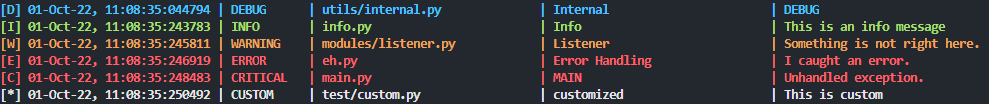
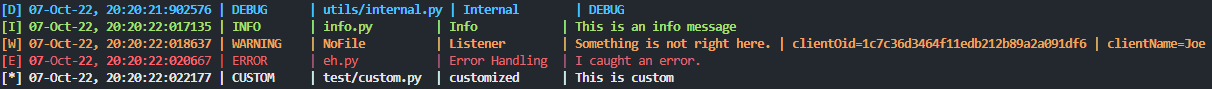
Rename; fix bugs

diff --git a/ezlogging/ezlogging.py b/ezlogging/ezlogging.py
@@ -15,7 +15,7 @@ class FileHandler:
 				f.write(f"{msg}\n")
 
 
-class PyLoggor:
+class ezlogging:
 	default_level_colours = {
 		"DEBUG": "[bold blue]",
 		"INFO": "[bold green]",
@@ -93,8 +93,8 @@ class PyLoggor:
 		file="NoFile",
 		msg="NoMessage", # I don't know why people do this
 		extras: Optional[dict] = None,
-		console_output: bool = True,
-		file_output: bool = False,
+		console_output: bool = None,
+		file_output: bool = None,
 	):
 		level = level.upper()
 		time_str = datetime.now().strftime(self.datefmt)
@@ -113,20 +113,37 @@ class PyLoggor:
 		else:
 			level_symbol = "*"
 
-		msg = f"[{level_symbol}] {time_str} {self.delim} {beautifed_level} {self.delim} {beautifed_file} {self.delim} {beautifed_topic} {self.delim} {msg}{extras_str}"
+		msg = f"[{level_symbol}] {time_str} {self.delim} {beautifed_level} {self.delim} {beautifed_file} {self.delim} {beautifed_topic} {self.delim} {msg} {extras_str}"
 
 		if level in self.level_colours.keys():
 			level_colour = self.level_colours[level]
 		else:
 			level_colour = self.default_colour
 
-		if self.console_output and console_output:
-			if level not in self.default_levels.keys() or self.default_levels[level] >= self.default_levels[self.console_output_level]:
-				print(f"{level_colour}{msg}[/]")
+		console_out = None
+		file_out = None
 
-		if self.file and file_output:
+		if console_output is True:
+			console_out = True
+		elif console_output is False:
+			console_out = False
+		elif console_output is None:
+			if level not in self.default_levels.keys() or self.default_levels[level] >= self.default_levels[self.console_output_level]:
+				console_out = True
+
+		if console_out:
+			print(f"{level_colour}{msg}[/]")
+
+		if file_output is True:
+			file_out = True
+		elif file_output is False:
+			file_out = False
+		elif file_output is None:
 			if level not in self.default_levels.keys() or self.default_levels[level] >= self.default_levels[self.file_output_level]:
-				self.file.write(msg)
+				file_out = True
+		
+		if file_out:
+			self.file.write(msg)
 	
 	def set_level(self, file_output_level=None, console_output_level=None) -> None:
 		if file_output_level:

diff --git a/setup.py b/setup.py
@@ -1,20 +1,20 @@
 from distutils.core import setup
 
 setup(
-    name='PyLoggor',
-    version='1.1.3',
+    name='ezlogging',
+    version='1.0.0',
     description='An incredibly versatile yet simple logging system.',
     author='Parth Mittal',
     author_email='parth@thekoalaco.in',
-    url='https://www.github.com/PrivatePandaCO/PyLoggor',
+    url='https://www.github.com/PrivatePandaCO/ezlogging',
     license='MIT',
-    packages=['PyLoggor'],
+    packages=['ezlogging'],
     install_requires=['rich'],
     long_description=open('README.md').read(),
     long_description_content_type='text/markdown',
     project_urls={
-        "Documentation": "https://github.com/PrivatePandaCO/PyLoggor/blob/master/README.md",
-        "Github": "https://github.com/PrivatePandaCO/PyLoggor",
-        "Changelog": "https://github.com/PrivatePandaCO/PyLoggor/blob/master/Changelog.md"
+        "Documentation": "https://github.com/PrivatePandaCO/ezlogging/blob/master/README.md",
+        "Github": "https://github.com/PrivatePandaCO/ezlogging",
+        "Changelog": "https://github.com/PrivatePandaCO/ezlogging/blob/master/Changelog.md"
     }
 )

diff --git a/ezlogging/__init__.py b/ezlogging/__init__.py
@@ -1,0 +1,1 @@
+from .ezlogging import ezlogging

diff --git a/README.md b/README.md
@@ -8,12 +8,12 @@ The easiest and perhaps the most versatile logger for python, in hundred lines.
 
 ### Installation
 ---
-As simple as `pip install PyLoggor`!
+As simple as `pip install ezlogging`!
 
 ### Usage
 ---
-1) Once installed, you can access the logger class by importing it like so: `from PyLoggor import PyLoggor`
-2) Instantize the class using: `myLogger = PyLoggor()`
+1) Once installed, you can access the logger class by importing it like so: `from ezlogging import ezlogging`
+2) Instantize the class using: `myLogger = ezlogging()`
 3) Log something! `myLogger.log(level="ERROR", msg="JSON config is corrupt.")`
 
 ### Config
@@ -40,7 +40,7 @@ As simple as `pip install PyLoggor`!
 
 1) `file_output_level`, `console_output_level`:
 	Different levels for file and console output!
-	- `PyLoggor(file_output_level="DEBUG", console_output_level="ERROR")`
+	- `ezlogging(file_output_level="DEBUG", console_output_level="ERROR")`
 	- This will write ALL logs to file but only print ERRORs and CRITICALs to the console.
 	- Both default to `DEBUG`.
 
@@ -52,10 +52,14 @@ As simple as `pip install PyLoggor`!
 3) `console_output`:
 	Set this to `False` if you do not want it to print logs to the console. Defaults to `True`.
 	
-4) `topic_beauty_space`, `file_beauty_space`, `level_beauty_space`:
+4) `topic_adjustment_space`, `file_adjustment_space`, `level_adjustment_space`:
 	- The loggor automatically adds whitespace to the end of topics, file names and levels (passed during logging) to make the output appear more... beautiful, as seen below
 
-5) `level_colours`:
+5) `level_align`, `topic_align`, `file_align`:
+	- Can be one of `left`, `center`, `centre`, `right`, all default to `left`.
+	- Alignment of the text when it's wrapped with whitespace due to (4)
+
+6) `level_colours`:
 	Defines the colour the log message is printed in.
 	- Pass in a dict structure like so:
 		```json
@@ -70,7 +74,7 @@ As simple as `pip install PyLoggor`!
 	- Colour names should be [rich]("https://github.com/Textualize/rich") compliant.
 	- If no colour is set, it defaults to above mentioned, and if custom level is used, defaults to ``[bold white]``
 
-6) `level_symbols`:
+7) `level_symbols`:
 	Each log level has a level system at the start of the log entry.
 	- Pass in a dict structure like so:
 		```json
@@ -86,10 +90,10 @@ As simple as `pip install PyLoggor`!
 	- This will get printed as `[D]` at the start of all log entries.
 	- Check below for a visual example.
 
-7) `delim`:
+8) `delim`:
 	Each field is separated by this deliminator, defaults to `|` (it gets wrapped with a space on each side).
 	
-8) `datefmt`:
+9) `datefmt`:
 	The datetime format in which the output is logged, defaults to `"%d-%b-%y, %H:%M:%S:%f"`
 	It appears something like this: `01-Oct-22, 10:35:21:300273`
 
@@ -97,23 +101,34 @@ As simple as `pip install PyLoggor`!
 <details>
 	<summary> Usage </summary>
 
-```python
-from PyLoggor import PyLoggor
+1) `level`: Defaults to `DEBUG`
+2) `topic`: The topic of the log entry, defaults to `"None"`
+3) `file`: The file in which the log entry was done, useful for debugging! Defaults to `"NoFile"`
+4) `msg`: The actual log message. I have no idea why people do this but it defaults to `"NoMessage"`
+5) `extras`: A dict, of extras, which are printed beautifully.
+6) `console_output`: boolean, defaults to logger default. Useful if you want to override logger default to print or not to print.
+7) `file_output`: boolean, defaults to logger default. Same usecase as (6).
 
-logger = PyLoggor(fn="log.txt")
+- You can also use `set_level()` to change the default logging level of the logger instance.
+	- You an pass in `file_output_level` and `console_output_level`, both of which default to logger default if not passed.
+
+```python
+from ezlogging import ezlogging
+
+logger = ezlogging(fn="log.txt")
 
 logger.log(level="debug", msg="DEBUG", topic="Internal", file="utils/internal.py")
-logger.log(level="info", msg="This is an info message", topic="Info", file="info.py")
-logger.log(level="warning", msg="Something is not right here.", topic="Listener", file="modules/listener.py")
+logger.log(level="info", msg="This is an info message", topic="Info", file="info.py", file_output=False)
+logger.log(level="warning", msg="Something is not right here.", topic="Listener", extras={"clientOid": "1c7c36d3464f11edb212b89a2a091df6", "clientName": "Joe"})
 logger.log(level="error", msg="I caught an error.", topic="Error Handling", file="eh.py")
-logger.log(level="critical", msg="Unhandled exception.", topic="MAIN", file="main.py")
+logger.log(level="critical", msg="Unhandled exception.", topic="MAIN", file="main.py", console_output=False)
 logger.log(level="custom", msg="This is custom", topic="customized", file="test/custom.py")
 ```
 </details>
 
-![output](https://github.com/PrivatePandaCO/PyLoggor/blob/master/Assets/output.png)
+![output](https://github.com/PrivatePandaCO/ezlogging/blob/master/Assets/output.png)
 
 ### Appendix
 ---
-**Find this incomplete?** Create an [issue](https://github.com/PrivatePandaCO/PyLoggor/issues)!
+**Find this incomplete?** Create an [issue](https://github.com/PrivatePandaCO/ezlogging/issues)!
 Just check mi [main profile](https://github.com/ThePrivatePanda) and my site, leave a star if ye liked this!
